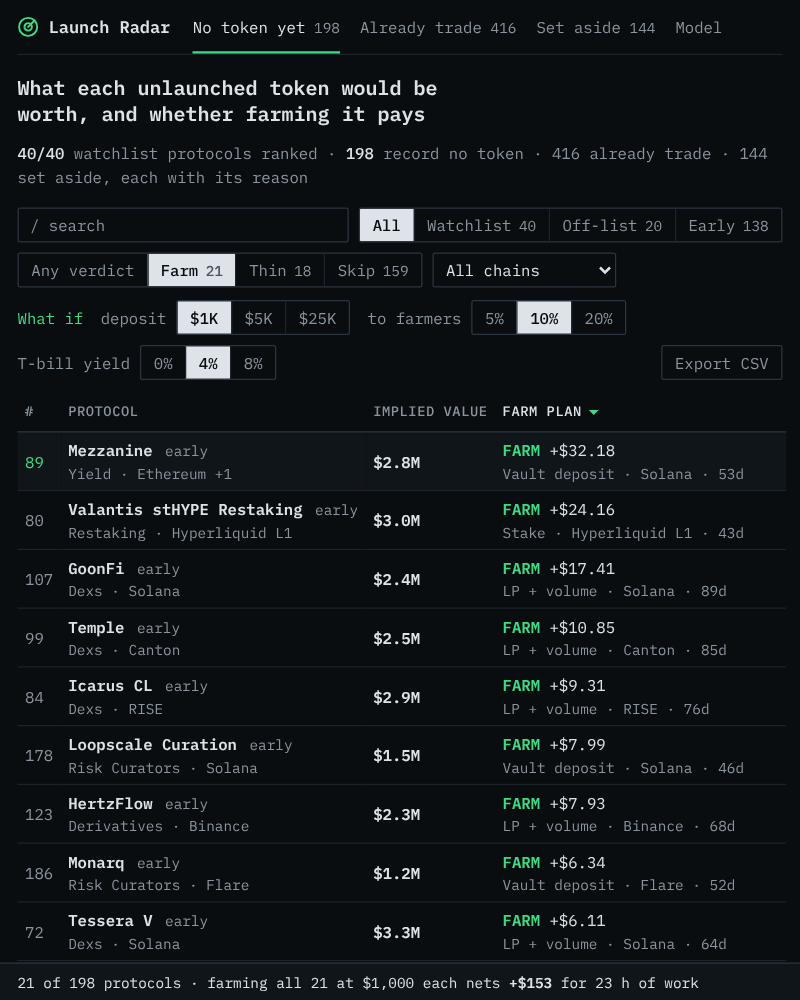
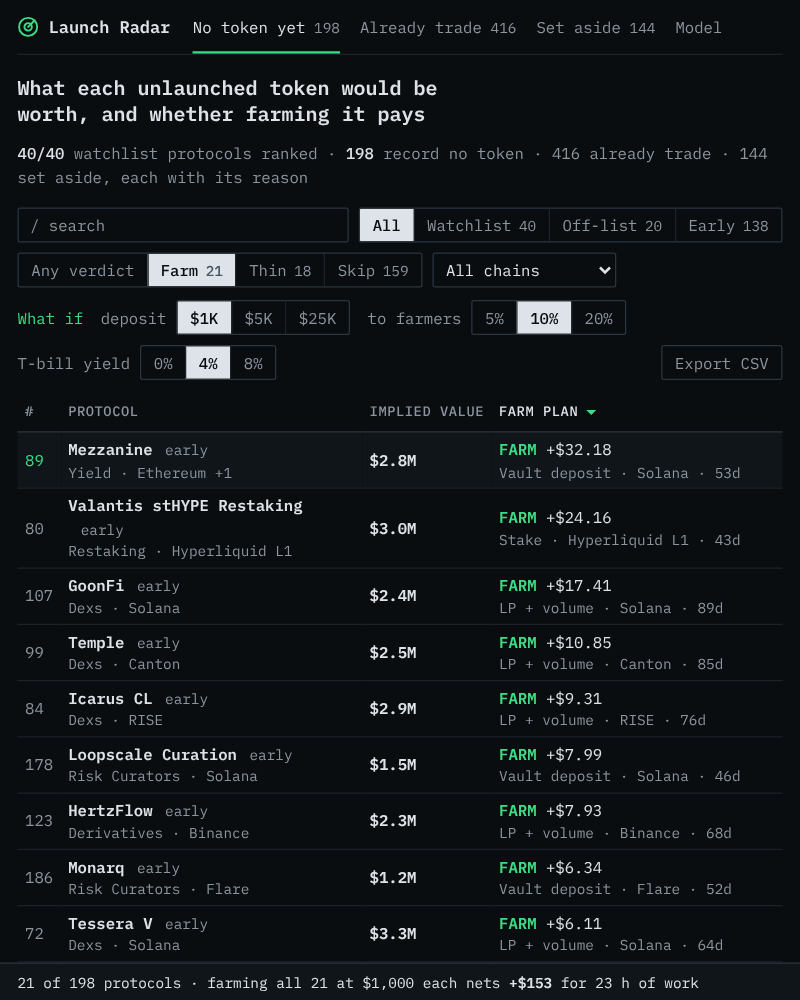
Put the model's evidence on the board; fix mid-width overflow
The board now carries an evidence strip between the readout and the
table: the size curve drawn on the 92 traded tokens, the launch-odds
fit drawn on the 442 stand-alone protocols, and the held-out table
(each pricing rule's typical miss on tokens its fit never saw), three
panes parted by hairlines. The readout drops its held-out sentence,
which the strip replaces.

The detail view moves its two charts below the ledger, so the costed
steps, their sum and the net sit together above the fold.

Windows between phone and desktop width no longer scroll sideways:
narrower ones give up the bands and the tests pane, then two columns,
then the strip. Checked at 21 widths from 360px to 1600px on every view.

The cover screenshot is taken at 1280x800 so six rows show under the
strip.

Claude-Session: https://claude.ai/code/session_01QSfWYUmCLaNGnHoQ39i4KV

diff --git a/token-radar-01/dashboard/radar.js b/token-radar-01/dashboard/radar.js
@@ -1,8 +1,9 @@
 // radar.js: the page. It prices the snapshot with model.js, plans each farm with plan.js, and draws:
+//   the evidence   both fits drawn on the snapshot, beside their held-out tests
 //   the board      every column sorts; filters by list, verdict, chain and search; j/k, enter, / and esc
 //   what-if        deposit, airdrop share and T-bill yield re-plan all rows live; the rows shown export as CSV
-//   a detail view  per protocol: how its value is built, both fits drawn, its costed steps and ledger
-//   three more tabs: tokens that already trade, protocols set aside with the reason, and the model's tests
+//   a detail view  per protocol: how its value is built, its costed steps and ledger, both fits
+//   three more tabs: tokens that already trade, protocols set aside and why, the model's tests
 // Nothing here holds a value: every figure is computed in the browser from data.js's snapshot.
 const DATA = window.RADAR_DATA, app = document.getElementById('app');
 const radar = DATA && buildRadar(DATA.snapshot), M = radar && radar.model, CHECK = M && M.check;
@@ -56,13 +57,6 @@ function sortRows(rows, cols) {
   const col = cols.find((c) => c.key === state.sort) || cols[0];
   return rows.sort((p, q) => { const a = col.val(p), b = col.val(q); return (a < b ? -1 : a > b ? 1 : 0) * state.dir || p.tvl - q.tvl; });
 }
-/** Put the keyboard's cursor on a row of the open table, clamped to its ends. */
-function moveCursor(to, scroll) {
-  const rows = app.querySelectorAll('#rows tbody tr[data-open]');
-  cursor = Math.max(0, Math.min(rows.length - 1, to));
-  rows.forEach((tr, i) => tr.classList.toggle('cur', i === cursor));
-  if (scroll && rows[cursor]) rows[cursor].scrollIntoView({ block: 'nearest' });
-}
 /** Download the rows shown as CSV: every figure of the board and of each plan, at the what-if settings. */
 function exportCsv() {
   const quote = (v) => (/[",\n]/.test(String(v)) ? '"' + String(v).replace(/"/g, '""') + '"' : v), head = 'rank,slug,name,category,chains,tvl_usd,change_7d,days_no_token,if_launched_usd,launch_odds,implied_value_usd,p25_usd,p75_usd,verdict,net_usd,hold_days,fees_usd,minutes,farm_chain';
@@ -90,8 +84,8 @@ const BOARD_COLUMNS = [
   { key: 'tvl', label: 'TVL', cls: 'num wide', val: (r) => r.tvl, cell: (r) => usd(r.tvl) },
   { key: 'chg', label: '7d', cls: 'num wide', tip: 'Seven-day change in TVL', val: (r) => r.chg, cell: changeCell },
   { key: 'age', label: 'No token', cls: 'num wide', tip: 'How long DefiLlama has tracked it with no token recorded', val: (r) => r.aged, cell: (r) => span(r.age) },
-  { key: 'ifLaunched', label: 'If launched', cls: 'num wide', tip: 'sizeCurve on its carried TVL', val: (r) => r.ifLaunched, cell: (r) => usd(r.ifLaunched) },
-  { key: 'odds', label: 'Odds', cls: 'num wide', tip: 'launchOdds: a look-alike records a token within two years', val: (r) => r.odds, cell: (r) => pct(r.odds) },
+  { key: 'ifLaunched', label: 'If launched', cls: 'num wide mid', tip: 'sizeCurve on its carried TVL', val: (r) => r.ifLaunched, cell: (r) => usd(r.ifLaunched) },
+  { key: 'odds', label: 'Odds', cls: 'num wide mid', tip: 'launchOdds: a look-alike records a token within two years', val: (r) => r.odds, cell: (r) => pct(r.odds) },
   { key: 'implied', label: 'Implied value', cls: 'val', tip: 'If launched × odds, with its P25–P75 band', val: (r) => r.implied, cell: valueCell },
   { key: 'net', label: 'Farm plan', cls: 'farm', tip: 'Expected airdrop slice less fees and T-bill yield given up', val: (r) => r.plan.net, cell: farmCell },
 ];
@@ -102,6 +96,13 @@ function table(cols, rows) {
   const body = rows.map((r) => `<tr ${r.kind === 'pre' ? `data-open='${r.slug}'` : ''}>${cols.map((c) => `<td class='${c.cls || ''}'>${c.cell(r)}</td>`).join('')}</tr>`).join('');
   const empty = `<tr><td class='empty' colspan='${cols.length}'>No protocol matches these filters. <button class='link' data-reset>Clear them</button></td></tr>`;
   return `<table><thead><tr>${head}</tr></thead><tbody>${body || empty}</tbody></table>`;
+}
+/** Put the keyboard's cursor on a row of the open table, clamped to its ends. */
+function moveCursor(to, scroll) {
+  const rows = app.querySelectorAll('#rows tbody tr[data-open]');
+  cursor = Math.max(0, Math.min(rows.length - 1, to));
+  rows.forEach((tr, i) => tr.classList.toggle('cur', i === cursor));
+  if (scroll && rows[cursor]) rows[cursor].scrollIntoView({ block: 'nearest' });
 }
 
 /** A segmented control: one button per option, the chosen one lit; a click sets state[key]. */
@@ -160,19 +161,19 @@ function detail(r) {
       ${box('× launch odds', pct(r.odds), `launchOdds: ${span(r.age)} with no token`)}
       ${box('= implied', usd(r.implied), `P25–P75 ${usd(r.p25)} to ${usd(r.p75)}`, 'total')}
     </ol>
-    <div class='charts'><div>${scatter(r)}</div><div>${oddsChart(r)}</div></div>
     <h3>Farm plan <small>${p.play} on ${esc(p.chain)}, ${p.hold} days</small>${sizeSeg()}</h3>
     <p class='call'><b class='${p.verdict}'>${p.verdict}</b> ${why} Net ${signed(p.net)} on ${cash(state.deposit)}, ${signed(p.perHour)} per hour of work.</p>
     <table class='steps'><thead><tr><th></th><th>Step</th><th>When</th><th>Cost</th><th>Time</th></tr></thead><tbody>
       ${p.steps.map((s, i) => `<tr><td>${i + 1}</td><td>${esc(s.text)}</td><td>${s.day}</td><td>${usd(s.cost)}</td><td>${s.min} min</td></tr>`).join('')}
       <tr class='sum'><td></td><td>${p.steps.length} steps on ${cash(state.deposit)}</td><td>${p.hold} days</td><td>${usd(p.fees)}</td><td>${p.minutes} min</td></tr></tbody></table>
     <div class='econ'><table>
-      ${line(`Your slice if it launches <small>${pct(state.share)} of its value to farmers</small>`, usd(p.slice))}
+      ${line(`Slice if it launches <small>${pct(state.share)} to farmers</small>`, usd(p.slice))}
       ${line(`× ${pct(r.odds)} launch odds`, usd(p.ev))}
       ${line('− fees', usd(p.fees))}
-      ${line(`− T-bill yield given up <small>${pct(state.hurdle)} a year, ${p.hold} days</small>`, usd(p.forgone))}
+      ${line(`− T-bill yield given up <small>${pct(state.hurdle)}, ${p.hold} d</small>`, usd(p.forgone))}
       ${line('Net', signed(p.net), 'sum')}</table>
-      <p>Breaks even at ${p.needOdds > 1 ? 'no' : pct(p.needOdds)} launch odds; the model says ${pct(r.odds)}. ${p.payFrom ? `Pays from a deposit of ${usd(p.payFrom)}.` : 'No deposit size pays.'} The hold is ${p.solved < HOLD[0] ? 'the 30-day minimum: no day here out-earns a T-bill' : p.solved > HOLD[1] ? 'capped at 180 days' : 'where one more day stops out-earning a T-bill'}.</p></div></aside>`;
+      <p>Breaks even at ${p.needOdds > 1 ? 'no' : pct(p.needOdds)} launch odds; the model says ${pct(r.odds)}. ${p.payFrom ? `Pays from a deposit of ${usd(p.payFrom)}.` : 'No deposit size pays.'} The hold is ${p.solved < HOLD[0] ? 'the 30-day minimum: no day here out-earns a T-bill' : p.solved > HOLD[1] ? 'capped at 180 days' : 'where one more day stops out-earning a T-bill'}.</p></div>
+    <h3>On both fits</h3><div class='charts'><div>${scatter(r)}</div><div>${oddsChart(r)}</div></div></aside>`;
 }
 
 // ---------------------------------------------------------------- the header, the readout and the model page
@@ -184,69 +185,80 @@ function topBar() {
     <p class='meta'>DefiLlama snapshot ${DATA.snapshot.as_of}</p></header>`;
 }
 
-/** The readout above the board: coverage, the one line every row is priced by, its held-out record, the farms. */
+/** The readout above the board: coverage, the one line every row is priced by, and the farms to run next. */
 function readout() {
-  const b = radar.board, t = CHECK.tests, o = CHECK.odds, n = (k) => b.filter((r) => r.plan.verdict === k).length, best = [...b].sort((p, q) => q.plan.net - p.plan.net).slice(0, 3);
+  const b = radar.board, n = (k) => b.filter((r) => r.plan.verdict === k).length, best = [...b].sort((p, q) => q.plan.net - p.plan.net).slice(0, 3);
   const row = (label, text) => `<dt>${label}</dt><dd>${text}</dd>`;
   return `<section class='lead'><h2>What each unlaunched token would be worth, and whether farming it pays</h2><dl>
     ${row('coverage', `<b>${b.filter((r) => r.watch).length}/${DATA.snapshot.watchlist.length}</b> watchlist protocols ranked · <b>${b.length}</b> record no token · ${radar.traded.length} already trade · ${radar.aside.length} set aside, each with its reason`)}
     ${row('model', `<code>implied value = sizeCurve(TVL × growthCarry(7d change)) × launchOdds(time with no token)</code><button class='link' data-set='tab' data-v='model'>how it is priced</button>`)}
-    ${row('held out', `typical miss <b>×${CHECK.miss.toFixed(2)}</b> on ${CHECK.n} unseen tokens (flat TVL multiple ×${t[0].miss.toFixed(2)}) · oldest pricing newest ×${CHECK.split.toFixed(2)} (flat ×${t[0].split.toFixed(2)}) · odds call <b>${pct(o.hit)}</b> (base ${pct(o.base)})`)}
     ${row('farm next', `${best.map((r) => `<button class='link' data-open='${r.slug}'>${esc(r.name)}</button> <span class='up'>${signed(r.plan.net)}</span>`).join(' · ')} · <b class='Farm'>${n('Farm')} farm</b>, ${n('Thin')} thin, ${n('Skip')} skip at ${cash(state.deposit)} each`)}
   </dl></section>`;
+}
+
+/** The held-out record as a table: each pricing rule's typical miss in both tests, the model's row lit. */
+const testsTable = () => `<table class='tests'><thead><tr><th>Pricing rule, typical miss</th><th title='Each token priced by a fit without it'>left out</th><th title='The ${CHECK.fit} longest-listed tokens price the ${CHECK.test} newest'>old → new</th></tr></thead><tbody>${CHECK.tests.map((t) => `<tr class='${t.used ? 'used' : ''}'><td>${t.label}</td><td>×${t.miss.toFixed(2)}</td><td>×${t.split.toFixed(2)}</td></tr>`).join('')}</tbody></table>`;
+
+/** The evidence strip between the readout and the board: both fits drawn on the snapshot, and their held-out tests. */
+function evidence() {
+  const o = CHECK.odds, pane = (name, about, body) => `<div><h3><i>${name}</i><small>${about}</small></h3>${body}</div>`;
+  return `<section class='proof'>
+    ${pane('sizeCurve', `${CHECK.n} traded tokens · held-out miss ×${CHECK.miss.toFixed(2)}`, scatter(null, 380, 118))}
+    ${pane('launchOdds', `${o.n} protocols · held-out hit ${pct(o.hit)}, base ${pct(o.base)}`, oddsChart(null, 380, 118))}
+    ${pane('held out', 'priced by fits that never saw them', testsTable() + `<p class='legend'>A fitted extra term must beat the curve on both tests to be used: neither does. The 7-day carry is a projection, not a fit.</p>`)}
+  </section>`;
 }
 
 /** The model page: the three steps with their fitted figures, both fits drawn, and the held-out record. */
 function modelPage() {
   const c = M.curve, o = CHECK.odds;
-  const tests = CHECK.tests.map((t) => `<tr class='${t.used ? 'used' : ''}'><td>${t.label}</td><td>×${t.miss.toFixed(2)}</td><td>×${t.split.toFixed(2)}</td></tr>`).join('');
   return `<section class='model'><div>
     <h2>How a row is priced</h2><ol class='prose'>
       <li><b>TVL sets the size.</b> <code>sizeCurve</code>: value if launched = 10<sup>${c.a.toFixed(2)}</sup> × (TVL / $100M)<sup>${c.b.toFixed(2)}</sup>, a robust line through the ${CHECK.n} stand-alone tokens that trade.</li>
       <li><b>Seven-day growth moves the TVL.</b> <code>growthCarry</code>: one more week of its move beyond the market's median week (${M.drift.toFixed(1)}%) is carried into the TVL the curve reads, capped at ±${pct(M.carryCap)}.</li>
       <li><b>Time with no token sets the odds.</b> <code>launchOdds</code>: of look-alikes still tokenless at its age, the share that record a token within ${M.horizon / 365} years, by age and category, fitted on ${o.n} protocols.</li>
     </ol><p>Implied value is step 1 on step 2's TVL, times step 3. No protocol is priced by its name, and every figure is fitted in this browser from the snapshot.</p>
-    <h3>Held out</h3><table class='tests'><thead><tr><th>Pricing rule, typical miss</th><th>Each token left out</th><th>${CHECK.fit} oldest price ${CHECK.test} newest</th></tr></thead><tbody>${tests}</tbody></table>
-    <p>An extra term is used only if it beats the plain curve on both tests; listing age and chain count do not. Launch odds call ${pct(o.hit)} of left-out protocols right, against a base rate of ${pct(o.base)}.</p>
+    <h3>Held out</h3>${testsTable()}
+    <p>Left out: each token priced by a fit that never saw it. Old → new: the ${CHECK.fit} longest-listed tokens price the ${CHECK.test} newest. An extra term is used only if it beats the plain curve on both tests; listing age and chain count do not. Launch odds call ${pct(o.hit)} of left-out protocols right, against a base rate of ${pct(o.base)}.</p>
     <h3>Farm assumptions</h3><p>Farmers split ${pct(state.share)} of a token's value by dollars and days in. A deposit gives up a ${pct(state.hurdle)} T-bill yield; gas is $${GAS.Ethereum} a transaction on Ethereum, $${GAS_ELSE.toFixed(2)} on most other chains. The board's what-if row changes the first two and the deposit.</p></div>
     <div><h3>Traded tokens set the curve</h3>${scatter()}<h3>The no-token clock</h3>${oddsChart()}</div></section>`;
 }
 
 const tick = (v) => '$' + (v >= 1e9 ? v / 1e9 + 'B' : v / 1e6 + 'M');
 /** Market cap on TVL, log-log: traded tokens, the fitted curve with its held-out band, and the board. */
-function scatter(focus) {
-  const W = 290, H = 124, x = (v) => 34 + ((Math.log10(v) - 6.7) / 3.9) * (W - 40), y = (v) => H - 16 - ((Math.log10(v) - 5) / 5.4) * (H - 22);
-  const at = (shift) => [5e6, 4e10].map((t) => `${x(t)},${y(sizeCurve(M.curve, t) * 10 ** shift)}`);
-  const dot = (r, v, cls, size) => `<circle class='${cls}' cx='${x(r.tvl).toFixed(1)}' cy='${y(v).toFixed(1)}' r='${size}'/>`;
-  const ticks = [1e7, 1e8, 1e9, 1e10].map((t) => `<text x='${x(t)}' y='${H - 4}'>${tick(t)}</text>`).join('') + [1e6, 1e8, 1e10].map((t) => `<text class='left' x='30' y='${y(t) + 3}'>${tick(t)}</text><path class='grid' d='M34 ${y(t)} H${W - 6}'/>`).join('');
+function scatter(focus, W = 290, H = 124) {
+  const x = (v) => 34 + ((Math.log10(v) - 6.7) / 3.9) * (W - 40), y = (v) => H - 16 - ((Math.log10(v) - 5) / 5.4) * (H - 22),
+    at = (shift) => [5e6, 4e10].map((t) => `${x(t)},${y(sizeCurve(M.curve, t) * 10 ** shift)}`),
+    dot = (r, v, cls, size) => `<circle class='${cls}' cx='${x(r.tvl).toFixed(1)}' cy='${y(v).toFixed(1)}' r='${size}'/>`;
+  const ticks =[1e7, 1e8, 1e9, 1e10].map((t) => `<text x='${x(t)}' y='${H - 4}'>${tick(t)}</text>`).join('') + [1e6, 1e8, 1e10].map((t) => `<text class='left' x='30' y='${y(t) + 3}'>${tick(t)}</text><path class='grid' d='M34 ${y(t)} H${W - 6}'/>`).join('');
   return `<svg class='chart' viewBox='0 0 ${W} ${H}' role='img' aria-label='Market cap against TVL for traded tokens, with the fitted size curve'>${ticks}
     <polygon class='bandfill' points='${[...at(CHECK.band[1]), ...at(CHECK.band[2]).reverse()].join(' ')}'/><polyline class='curve' points='${at(0).join(' ')}'/>
     ${radar.tokens.map((t) => dot(t.r, t.r.mcap, 'token', 2.1)).join('')}${focus ? '' : radar.board.map((r) => dot(r, r.implied, 'pre', 1.5)).join('')}
     ${focus ? `<path class='drop' d='M${x(focus.tvl)} ${y(focus.ifLaunched)} V${y(focus.implied)}'/>${dot(focus, focus.ifLaunched, 'ring', 4)}${dot(focus, focus.implied, 'focus', 4.5)}` : ''}</svg>
-    <p class='legend'>${focus ? `Size curve on ${CHECK.n} traded tokens (grey). It sits on the line, then drops by its odds.` : 'Grey: market cap of traded tokens on their TVL. Green: the board, at implied value.'}</p>`;
+    <p class='legend'>${focus ? `Size curve on ${CHECK.n} traded tokens (grey). It sits on the line, then drops by its odds.` : 'Grey: traded tokens, market cap on TVL. Line: the fit, P25–P75. Green: the board.'}</p>`;
 }
 
 /** The share of stand-alone protocols that record a token, by age: the snapshot's bars and the fitted line. */
-function oddsChart(focus) {
-  const W = 290, H = 124, YEARS = 5.2, BINS = [0, 0.5, 1, 1.5, 2, 3, 4, 9], x = (yrs) => 34 + (Math.min(yrs, YEARS) / YEARS) * (W - 40), y = (s) => H - 16 - s * (H - 26);
+function oddsChart(focus, W = 290, H = 124) {
+  const YEARS = 5.2, BINS = [0, 0.5, 1, 1.5, 2, 3, 4, 9], x = (yrs) => 34 + (Math.min(yrs, YEARS) / YEARS) * (W - 40), y = (s) => H - 16 - s * (H - 26);
   const alone = radar.rows.filter((r) => r.alone), cat = focus ? focus.cat : '';
   const bars = BINS.slice(0, -1).map((from, i) => {
     const bin = alone.filter((r) => r.aged / 365 >= from && r.aged / 365 < BINS[i + 1]), s = bin.filter((r) => r.kind === 'traded').length / bin.length;
     return `<rect class='bar' x='${x(from) + 1}' y='${y(s)}' width='${x(BINS[i + 1]) - x(from) - 2}' height='${y(0) - y(s)}'/>`;
   }).join('');
-  const line = Array.from({ length: 64 }, (_, i) => 20 + i * 30).map((d) => `${x(d / 365).toFixed(1)},${y(tokenShare(M.odds, d, cat)).toFixed(1)}`).join(' ');
-  const mark = (days, cls) => `<circle class='${cls}' cx='${x(days / 365)}' cy='${y(tokenShare(M.odds, days, cat))}' r='4'/>`;
+  const line = Array.from({ length: 64 }, (_, i) => 20 + i * 30).map((d) => `${x(d / 365).toFixed(1)},${y(tokenShare(M.odds, d, cat)).toFixed(1)}`).join(' '),
+    mark = (days, cls) => `<circle class='${cls}' cx='${x(days / 365)}' cy='${y(tokenShare(M.odds, days, cat))}' r='4'/>`;
   return `<svg class='chart' viewBox='0 0 ${W} ${H}' role='img' aria-label='Share of protocols recording a token by age'>
     ${[0, 1, 2, 3, 4, 5].map((t) => `<text x='${x(t)}' y='${H - 4}'>${t} y</text>`).join('')}${[0, 0.5, 1].map((s) => `<text class='left' x='30' y='${y(s) + 3}'>${pct(s)}</text><path class='grid' d='M34 ${y(s)} H${W - 6}'/>`).join('')}
     ${bars}<polyline class='curve' points='${line}'/>${focus ? mark(focus.aged, 'focus') + mark(focus.aged + M.horizon, 'ring') : ''}</svg>
-    <p class='legend'>${focus ? `${esc(cat)} look-alikes with a token: ${pct(tokenShare(M.odds, focus.aged, cat))} at its age, ${pct(tokenShare(M.odds, focus.aged + M.horizon, cat))} two years on.` : 'Share of protocols that record a token, by age. The flatter the line ahead, the lower the odds.'}</p>`;
+    <p class='legend'>${focus ? `${esc(cat)} look-alikes with a token: ${pct(tokenShare(M.odds, focus.aged, cat))} at its age, ${pct(tokenShare(M.odds, focus.aged + M.horizon, cat))} two years on.` : 'Share recording a token, by age. The flatter the line ahead, the lower the odds.'}</p>`;
 }
 
 // ---------------------------------------------------------------- the other two groups
 
 const TRADED_COLUMNS = [
   { key: 'name', label: 'Protocol', val: (r) => r.name.toLowerCase(), cell: nameCell },
-  { key: 'symbol', label: 'Token', val: (r) => r.symbol || '', cell: (r) => esc(r.symbol || '–') },
+  { key: 'symbol', label: 'Token', cls: 'tok', val: (r) => r.symbol || '', cell: (r) => esc(r.symbol || '–') },
   { key: 'tvl', label: 'TVL', cls: 'num', val: (r) => r.tvl, cell: (r) => usd(r.tvl) },
   { key: 'mcap', label: 'Market cap', cls: 'num', val: (r) => r.mcap || 0, cell: (r) => (r.mcap ? usd(r.mcap) : '–') },
   { key: 'curve', label: 'Curve says', cls: 'num wide', val: (r) => r.tvl, cell: (r) => usd(sizeCurve(M.curve, r.tvl)) },
@@ -258,7 +270,7 @@ function render() {
   if (planned !== [state.deposit, state.share, state.hurdle].join('/')) replan();
   seal = seal || selfCheck();
   const row = radar.board.find((r) => r.slug === state.open), model = state.tab === 'model';
-  app.innerHTML = topBar() + (model ? modelPage() : (state.tab === 'pre' ? readout() : '') + toolbar() + `<section id='rows'></section>`) + `<footer id='status'></footer>` + (row ? detail(row) : '');
+  app.innerHTML = topBar() + (model ? modelPage() : (state.tab === 'pre' ? readout() + evidence() : '') + toolbar() + `<section id='rows'></section>`) + `<footer id='status'></footer>` + (row ? detail(row) : '');
   if (model) statusLine('Fitted in this browser from the snapshot');
   else renderRows();
 }

diff --git a/token-radar-01/dashboard/style.css b/token-radar-01/dashboard/style.css
@@ -31,10 +31,17 @@ small { display: block; color: var(--soft); font-size: 11.5px; }
 .meta { color: var(--soft); white-space: nowrap; }
 
 /* the readout: what the board covers, how it prices, how that held up, what to farm */
-.lead { padding: 18px 0 8px; } h2 { font-size: 16px; font-weight: 600; line-height: 1.35; text-wrap: balance; }
+.lead { padding: 14px 0 8px; } h2 { font-size: 16px; font-weight: 600; line-height: 1.35; text-wrap: balance; }
 dl { display: grid; grid-template-columns: max-content 1fr; gap: 3px 18px; margin: 10px 0 0; }
 dt { color: var(--green); } dd { margin: 0; color: var(--soft); } dd b, dd code { color: var(--ink); font-weight: 500; }
 dd .link { margin-left: 16px; } dd .link + span { margin-left: 2px; } dd .link:first-child { margin-left: 0; color: var(--ink); }
+
+/* the evidence strip: both fits drawn and their held-out tests, three panes parted by hairlines */
+.proof { display: grid; grid-template-columns: repeat(3, 1fr); gap: 0 40px; margin-top: 4px; padding: 9px 0 8px; border-top: 1px solid var(--line); border-bottom: 1px solid var(--line); }
+.proof > div { position: relative; min-width: 0; } .proof > div + div::before { content: ''; position: absolute; top: -9px; bottom: -8px; left: -20px; border-left: 1px solid var(--line); }
+.proof h3 { margin: 0 0 3px; font-size: 12.5px; font-weight: 500; } .proof h3 i { color: var(--green); font-style: normal; }
+.proof h3 small { min-width: 0; overflow: hidden; text-overflow: ellipsis; white-space: nowrap; } .proof .chart text { font-size: 9.5px; }
+.proof .tests th { padding: 0 0 3px; } .proof .tests td { padding: 1px 10px 1px 0; font-size: 12px; } .proof .legend { font-size: 11px; line-height: 1.4; }
 
 /* filters and the what-if row */
 .tools { display: flex; flex-wrap: wrap; align-items: center; gap: 8px; padding: 10px 0; }
@@ -53,7 +60,7 @@ table { width: 100%; border-collapse: collapse; }
 th { position: sticky; top: 0; padding: 7px 6px; border-bottom: 1px solid var(--rule); background: var(--screen); color: var(--soft); font-size: 11px; font-weight: 500; letter-spacing: 0.04em; text-align: left; text-transform: uppercase; white-space: nowrap; cursor: pointer; }
 th:hover, th.sorted { color: var(--ink); } th.up::after { border-top: 0; border-bottom: 4px solid var(--green); }
 th.sorted::after { content: ''; display: inline-block; margin-left: 6px; border: 4px solid transparent; border-top-color: var(--green); border-bottom: 0; vertical-align: 1px; }
-td { padding: 5px 6px; border-bottom: 1px solid var(--line); } td:first-child { color: var(--soft); } td:nth-child(2), td small { white-space: nowrap; }
+td { padding: 4px 6px; border-bottom: 1px solid var(--line); } td:first-child { color: var(--soft); } td:nth-child(2), td small { white-space: nowrap; }
 .num { text-align: right; white-space: nowrap; } .empty { padding: 40px 0; color: var(--soft); text-align: center; }
 tbody tr[data-open] { cursor: pointer; } tbody tr[data-open]:hover, tr.cur { background: var(--raised); } tr.cur td:first-child { color: var(--green); }
 .name { font-weight: 600; text-align: left; } .name + i { margin-left: 10px; color: var(--soft); font-size: 11.5px; font-style: normal; } .name + .watch { color: var(--green); }
@@ -73,15 +80,15 @@ kbd { margin-left: 10px; padding: 0 5px; border: 1px solid var(--rule); border-r
 .detail { position: fixed; top: 0; right: 0; bottom: 0; width: min(660px, 100%); overflow: auto; padding: 14px 22px 28px; border-left: 1px solid var(--rule); background: var(--screen); }
 .detail header { display: flex; align-items: center; gap: 8px; color: var(--soft); font-size: 11.5px; } .detail header span { margin: 0 auto 0 6px; }
 .ghost { padding: 0 10px; color: var(--soft); transition: color 0.15s, background 0.15s; } .ghost:hover { color: var(--ink); background: var(--raised); }
-.detail h2 { margin-top: 14px; font-size: 18px; } .sub { color: var(--soft); } .call { margin-bottom: 6px; }
-h3 { display: flex; align-items: center; gap: 10px; margin: 20px 0 8px; font-size: 13.5px; font-weight: 600; } h3 small { flex: 1; }
+.detail h2 { margin-top: 12px; font-size: 18px; } .sub { color: var(--soft); } .call { margin-bottom: 6px; }
+h3 { display: flex; align-items: center; gap: 10px; margin: 16px 0 8px; font-size: 13.5px; font-weight: 600; } h3 small { flex: 1; }
 .ladder { display: grid; grid-template-columns: repeat(5, 1fr); gap: 14px; padding: 9px 0 0; border-top: 1px solid var(--line); list-style: none; }
 .ladder b { display: block; margin: 1px 0; font-size: 15px; font-weight: 600; } .ladder .total b { color: var(--green); }
 .ladder em { display: block; color: var(--soft); font-size: 11px; font-style: normal; line-height: 1.4; }
 .steps th { position: static; padding: 5px 6px; cursor: default; } .steps .sum td { border: 0; font-weight: 600; }
 .steps td { padding: 5px 6px; font-size: 12px; line-height: 1.42; vertical-align: top; white-space: normal; }
 .steps td:nth-child(n + 3), .steps th:nth-child(n + 3) { text-align: right; white-space: nowrap; }
-.econ { display: grid; grid-template-columns: 1.15fr 1fr; gap: 28px; margin-top: 12px; } .econ p { color: var(--soft); }
+.econ { display: grid; grid-template-columns: 1.3fr 1fr; gap: 28px; margin-top: 10px; } .econ p { color: var(--soft); }
 .econ td { padding: 3px 0; border: 0; } .econ td small { display: inline; margin-left: 4px; } .econ td + td { text-align: right; white-space: nowrap; }
 .econ .sum td { padding-top: 6px; border-top: 1px solid var(--rule); font-weight: 600; }
 .charts { display: grid; grid-template-columns: 1fr 1fr; gap: 24px; margin-top: 12px; } .charts .chart { height: 92px; } .charts .legend { font-size: 11px; line-height: 1.4; }
@@ -97,14 +104,20 @@ h3 { display: flex; align-items: center; gap: 10px; margin: 20px 0 8px; font-siz
 .tests th { position: static; padding-left: 0; cursor: default; } .tests td { padding: 5px 10px 5px 0; } .tests td + td, .tests th + th { text-align: right; }
 .tests .used td { color: var(--green); font-weight: 600; }
 
+/* narrower windows give up the least-needed things first: bands and the tests pane, then two columns, then the strip */
+@media (max-width: 1100px) {
+  .band, .fees, .proof > div:last-child { display: none; } .proof { grid-template-columns: 1fr 1fr; }
+  td:nth-child(-n + 2), td:nth-child(-n + 2) small { white-space: normal; }
+}
+@media (max-width: 960px) { .mid, .meta { display: none; } }
 @media (max-width: 760px) {
   #app { padding: 0 14px; } #status { margin: 0 -14px; padding: 6px 14px; }
-  .wide, .meta, .band, .keys, .seal, dt, dd:nth-of-type(n + 2) { display: none; } dl { display: block; }
+  .wide, .keys, .seal, .proof, dt, dd:nth-of-type(n + 2) { display: none; } dl { display: block; }
   .top { gap: 18px; overflow-x: auto; } .top nav { gap: 16px; } .lead { padding: 16px 0 6px; }
   .tools input { flex: 1; } .what { gap: 8px 14px; } .detail { padding: 12px 14px 24px; border: 0; }
   .ladder { gap: 10px; } .econ, .charts, .model { gap: 18px; } .model { grid-template-columns: 1fr; }
 }
 @media (max-width: 520px) {
-  td small, td:nth-child(2) { white-space: normal; } .name + i, .farm small { display: none; }
+  #app { padding: 0 10px; } #status { margin: 0 -10px; padding: 6px 10px; } td { padding: 4px 3px; } td small { white-space: normal; } .val > b { min-width: 0; } .name + i, .farm small, .tok { display: none; }
   .ladder { grid-template-columns: 1fr 1fr; } .econ, .charts { grid-template-columns: 1fr; }
 }

diff --git a/token-radar-01/dashboard/index.html b/token-radar-01/dashboard/index.html
@@ -9,7 +9,7 @@
 <body>
 <!-- data.js, written by main.ts beside this folder, carries the sealed snapshot and board.json's rows.
      model.js prices every row and plan.js plans its farm; main.ts runs those same two files to write
-     board.json. radar.js draws the board, its filters and each protocol's detail view. -->
+     board.json. radar.js draws the page. -->
 <main id="app"><p class="boot">Launch Radar has no data yet. Run <code>node main.ts</code>, then open <code>dashboard/index.html</code> in its output folder.</p></main>
 <script src="../data.js"></script>
 <script src="model.js"></script>

diff --git a/token-radar-01/README.md b/token-radar-01/README.md
@@ -46,11 +46,13 @@ At $1,000 a protocol the radar finds 21 farms, 18 thin and 159 skips. The large 
 
 Static, no framework, no network. It is a terminal: a dark screen, one self-hosted monospace face (IBM Plex Mono, under the SIL Open Font License in `licenses/`), one green, and a status line that says what is shown and which keys drive it. One board, one sentence on what it is, and everything else a keystroke or a click away.
 
-- **Readout**: four lines above the board: coverage, the one line every row is priced by, how that held up on tokens the fit never saw, and the farms to run next.
+- **Readout**: three lines above the board: coverage, the one line every row is priced by, and the farms to run next.
+- **Evidence strip**: under the readout, both fits drawn on the snapshot (market cap on TVL with the fitted curve and its P25 to P75 band; the share of protocols recording a token, by age) beside the held-out table: each pricing rule's typical miss on tokens its fit never saw, the model's row lit.
 - **Board**: sort by any column; filter by list, verdict, chain or search. A filtered board says what farming everything shown would net.
 - **What if**: change the deposit, the share of the token that goes to farmers, or the T-bill yield, and all 198 plans and verdicts re-solve in place. Export the rows shown as CSV.
 - **Keyboard**: `j`/`k` or the arrows move the cursor, `enter` opens its row, `/` searches, `esc` closes; with a row open, `j`/`k` step to the next one.
-- **Detail**: open any row for how its value is built, its farm plan step by step, and the plan's ledger.
+- **Detail**: open any row for how its value is built, its farm plan step by step, the plan's ledger, and where the protocol sits on both fits.
+- **Any width**: a narrower window gives up the least-needed things first (the bands and the tests pane, then two columns, then the strip); nothing scrolls sideways from a 360px phone up.
 - **Already trade / Set aside**: the protocols that are never ranked, each with its reason.
 - **Model**: the three steps with their fitted figures, both fits drawn on the snapshot, the held-out tests and the farm assumptions.
 
